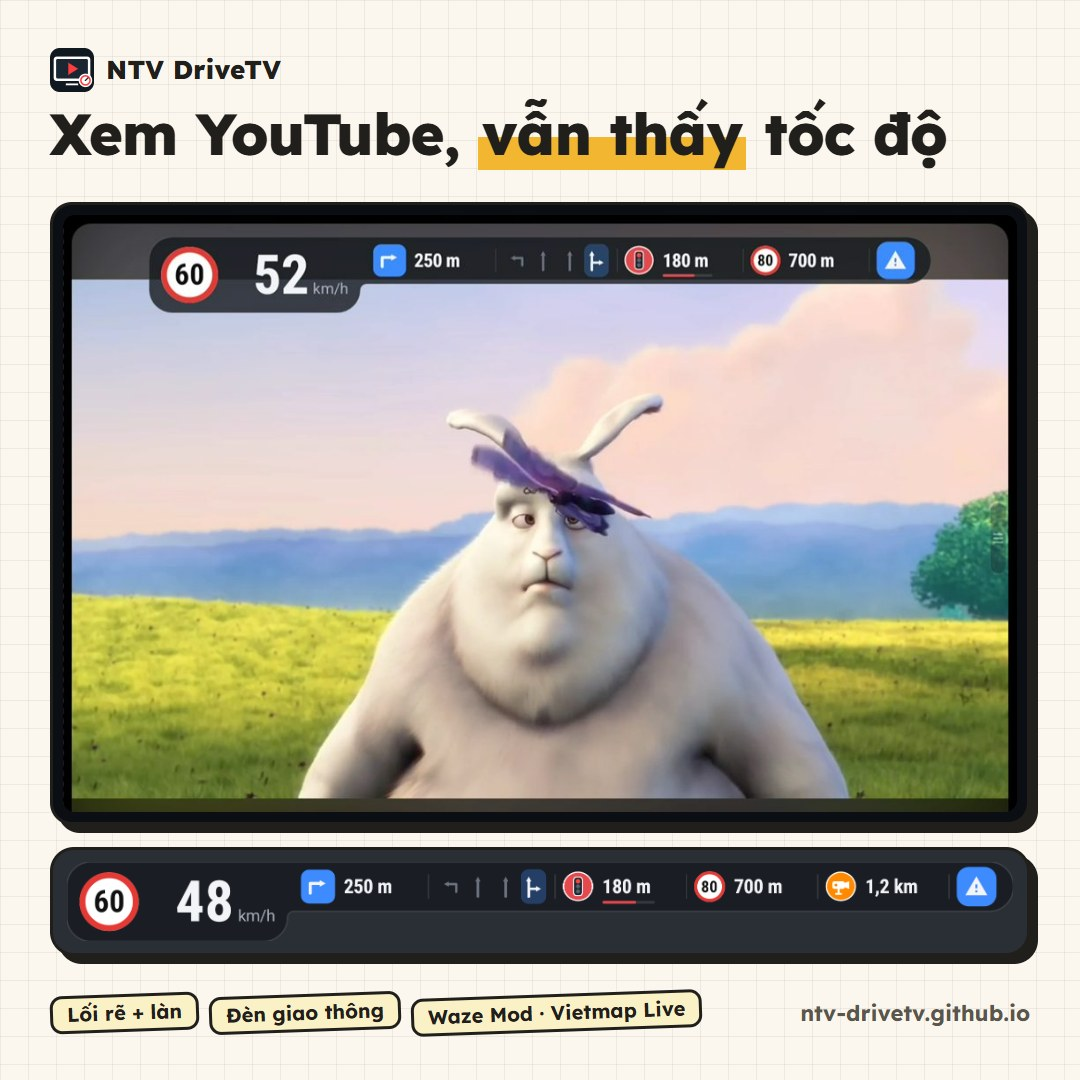
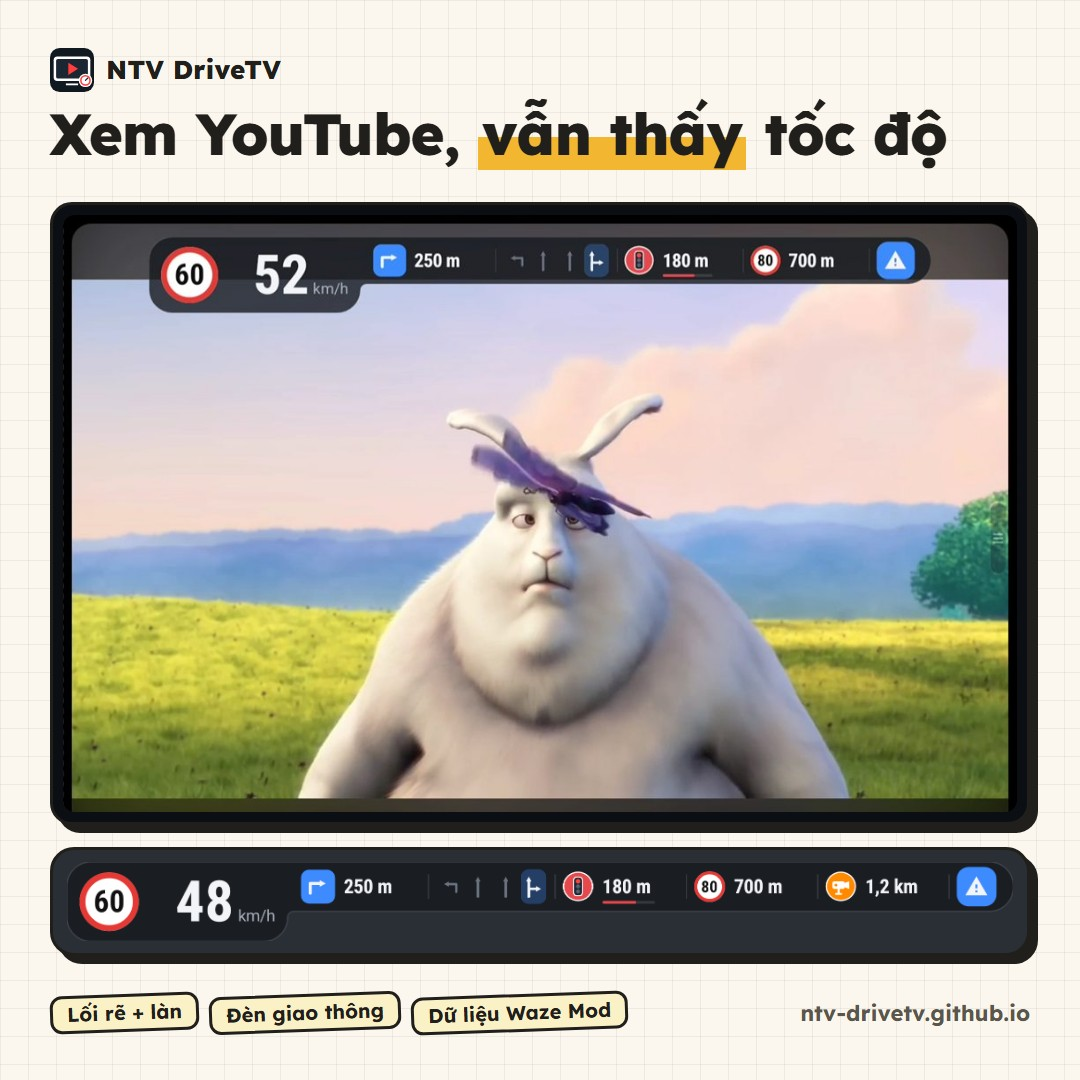
Bỏ mọi thông tin về Vietmap trên trang và ảnh quảng cáo

Changed region(s): [[0.3972, 0.9167, 0.6722, 0.9778]]

diff --git a/index.html b/index.html
@@ -4,7 +4,7 @@
 <meta charset="utf-8">
 <meta name="viewport" content="width=device-width, initial-scale=1, viewport-fit=cover">
 <title>NTV DriveTV</title>
-<meta name="description" content="Xem YouTube trên màn hình Android Auto, góc màn hình có bong bóng báo giới hạn, tốc độ, chỗ rẽ, làn đường và camera lấy từ Waze Mod hoặc Vietmap Live. Không cần root, dùng thử miễn phí.">
+<meta name="description" content="Xem YouTube trên màn hình Android Auto, góc màn hình có bong bóng báo giới hạn, tốc độ, chỗ rẽ, làn đường và camera lấy từ Waze Mod. Không cần root, dùng thử miễn phí.">
 <meta property="og:title" content="NTV DriveTV">
 <meta property="og:description" content="YouTube trên màn hình xe mà tốc độ, chỗ rẽ, làn đường, đèn giao thông, đổi tốc độ vẫn hiện ngay đó. Không cần root.">
 <meta property="og:image" content="img/og.jpg">
@@ -352,7 +352,7 @@
         <div class="hero-copy">
           <span class="tag">Cho xe có Android Auto</span>
           <h1>Xem YouTube trên màn hình xe mà vẫn biết tốc độ, lối rẽ, đèn phía trước</h1>
-          <p class="lede">NTV DriveTV giúp bạn mở YouTube ngay trên màn hình Android Auto của xe. Ở góc màn hình luôn có một bong bóng nhỏ cho bạn biết <span class="mark">đoạn đường cho chạy tối đa bao nhiêu</span>, <span class="mark">xe đang chạy bao nhiêu</span>, <span class="mark">sắp rẽ ở đâu, đi làn nào</span> và <span class="mark">phía trước có đèn giao thông, camera hay đổi tốc độ không</span>. Số liệu lấy từ <b>Waze Mod</b> hoặc <b>Vietmap Live</b> trên điện thoại (bạn chọn), nên app báo gì thì bong bóng hiện đúng như vậy.</p>
+          <p class="lede">NTV DriveTV giúp bạn mở YouTube ngay trên màn hình Android Auto của xe. Ở góc màn hình luôn có một bong bóng nhỏ cho bạn biết <span class="mark">đoạn đường cho chạy tối đa bao nhiêu</span>, <span class="mark">xe đang chạy bao nhiêu</span>, <span class="mark">sắp rẽ ở đâu, đi làn nào</span> và <span class="mark">phía trước có đèn giao thông, camera hay đổi tốc độ không</span>. Số liệu lấy từ <b>Waze Mod</b> trên điện thoại, nên Waze báo gì thì bong bóng hiện đúng như vậy.</p>
           <div class="actions">
             <a class="btn dark" href="#cach-mua">Dùng thử miễn phí <span data-trial>3</span> ngày <svg viewBox="0 0 24 24" fill="none" stroke="currentColor" stroke-width="2.5" stroke-linecap="round" stroke-linejoin="round" aria-hidden="true"><path d="M5 12h14M13 6l6 6-6 6"/></svg></a>
             <a class="btn light" href="#man-hinh">Xem trên màn hình giống xe bạn <svg viewBox="0 0 24 24" fill="none" stroke="currentColor" stroke-width="2.5" stroke-linecap="round" stroke-linejoin="round" aria-hidden="true"><path d="M12 5v14M6 13l6 6 6-6"/></svg></a>
@@ -405,8 +405,8 @@
         <article class="fcard c-green">
           <span class="pill">Cạnh bản đồ</span>
           <h3>Hiện tốc độ giới hạn bên cạnh bản đồ</h3>
-          <p>Mở Google Maps, Waze hay Vietmap Live để chỉ đường, thẻ DriveTV bên cạnh bản đồ vẫn hiện biển giới hạn, tốc độ xe, chỗ rẽ và camera. Video thì vẫn phát tiếng bình thường.</p>
-          <div class="art"><span class="chip l">Google Maps</span><span class="chip r">Waze · Vietmap</span><svg viewBox="18 18 72 72" aria-hidden="true"><path d="M28,30h52a6,6 0,0 1,6 6v34a6,6 0,0 1,-6 6h-52a6,6 0,0 1,-6 -6v-34a6,6 0,0 1,6 -6z" fill="#FFFFFF"/><path d="M29,34h50a3,3 0,0 1,3 3v32a3,3 0,0 1,-3 3h-50a3,3 0,0 1,-3 -3v-32a3,3 0,0 1,3 -3z" fill="#1B2633"/><path d="M31,67C35,60 34,54 40,50S47,44 47,42" fill="none" stroke="#6B7A8F" stroke-width="3" stroke-linecap="round" stroke-linejoin="round"/><path d="M47,37a3.5,3.5 0,1 1,0 7a3.5,3.5 0,1 1,0 -7z" fill="#6B7A8F"/><path d="M57,39h19a3,3 0,0 1,3 3v24a3,3 0,0 1,-3 3h-19a3,3 0,0 1,-3 -3v-24a3,3 0,0 1,3 -3z" fill="#FF3D3D"/><path d="M60,57.5a6.5,6.5 0,1 1,13 0" fill="none" stroke="#FFFFFF" stroke-width="2.5" stroke-linecap="round" stroke-linejoin="round"/><path d="M66.5,57.5L70,52.5" fill="none" stroke="#FFFFFF" stroke-width="2.2" stroke-linecap="round" stroke-linejoin="round"/><path d="M60,62h13v2.5h-13z" fill="#FFFFFF"/><path d="M42,78h24v3h-24z" fill="#FFFFFF"/></svg></div>
+          <p>Mở Google Maps hay Waze để chỉ đường, thẻ DriveTV bên cạnh bản đồ vẫn hiện biển giới hạn, tốc độ xe, chỗ rẽ và camera. Video thì vẫn phát tiếng bình thường.</p>
+          <div class="art"><span class="chip l">Google Maps</span><span class="chip r">Waze</span><svg viewBox="18 18 72 72" aria-hidden="true"><path d="M28,30h52a6,6 0,0 1,6 6v34a6,6 0,0 1,-6 6h-52a6,6 0,0 1,-6 -6v-34a6,6 0,0 1,6 -6z" fill="#FFFFFF"/><path d="M29,34h50a3,3 0,0 1,3 3v32a3,3 0,0 1,-3 3h-50a3,3 0,0 1,-3 -3v-32a3,3 0,0 1,3 -3z" fill="#1B2633"/><path d="M31,67C35,60 34,54 40,50S47,44 47,42" fill="none" stroke="#6B7A8F" stroke-width="3" stroke-linecap="round" stroke-linejoin="round"/><path d="M47,37a3.5,3.5 0,1 1,0 7a3.5,3.5 0,1 1,0 -7z" fill="#6B7A8F"/><path d="M57,39h19a3,3 0,0 1,3 3v24a3,3 0,0 1,-3 3h-19a3,3 0,0 1,-3 -3v-24a3,3 0,0 1,3 -3z" fill="#FF3D3D"/><path d="M60,57.5a6.5,6.5 0,1 1,13 0" fill="none" stroke="#FFFFFF" stroke-width="2.5" stroke-linecap="round" stroke-linejoin="round"/><path d="M66.5,57.5L70,52.5" fill="none" stroke="#FFFFFF" stroke-width="2.2" stroke-linecap="round" stroke-linejoin="round"/><path d="M60,62h13v2.5h-13z" fill="#FFFFFF"/><path d="M42,78h24v3h-24z" fill="#FFFFFF"/></svg></div>
         </article>
         <article class="fcard c-purple">
           <span class="pill">Menu</span>
@@ -439,14 +439,14 @@
           <li><b>🚦 Đèn giao thông</b>Còn dưới 500 m thì có thanh đếm lùi màu đỏ.</li>
           <li><b>80 Đổi tốc độ phía trước</b>Biển giới hạn mới và còn bao xa tới đó.</li>
         </ul>
-        <p class="note">Lối rẽ và làn đường lấy từ Waze Mod; dùng Vietmap Live thì bong bóng hiện giới hạn, tốc độ, camera và các cảnh báo của Vietmap. Trên là bong bóng dọc lúc sắp tới ngã rẽ. Giữa là bong bóng ngang cùng tình huống. Dưới là bong bóng ngang lúc lỡ chạy quá tốc độ, phần tốc độ chuyển sang đỏ.</p>
+        <p class="note">Số liệu lấy từ Waze Mod. Trên là bong bóng dọc lúc sắp tới ngã rẽ. Giữa là bong bóng ngang cùng tình huống. Dưới là bong bóng ngang lúc lỡ chạy quá tốc độ, phần tốc độ chuyển sang đỏ.</p>
       </div>
     </div>
   </section>
 
   <section class="block gutter">
     <div class="wrap">
-      <div class="head"><h2>Đang chỉ đường bằng Google Maps, Waze hay Vietmap vẫn thấy tốc độ</h2><p>Lúc không xem video, bạn cứ để bản đồ chiếm màn hình. Thẻ DriveTV bên cạnh vẫn hiện biển giới hạn và tốc độ xe. Dòng trên cho biết còn bao xa tới chỗ rẽ và rẽ vào đường nào. Dòng dưới chỉ nhắc những gì đáng để ý như đèn giao thông, camera, đổi tốc độ, trạm thu phí. Video vẫn phát tiếng, bạn quay lại là thấy hình ngay.</p></div>
+      <div class="head"><h2>Đang chỉ đường bằng Google Maps hay Waze vẫn thấy tốc độ</h2><p>Lúc không xem video, bạn cứ để bản đồ chiếm màn hình. Thẻ DriveTV bên cạnh vẫn hiện biển giới hạn và tốc độ xe. Dòng trên cho biết còn bao xa tới chỗ rẽ và rẽ vào đường nào. Dòng dưới chỉ nhắc những gì đáng để ý như đèn giao thông, camera, đổi tốc độ, trạm thu phí. Video vẫn phát tiếng, bạn quay lại là thấy hình ngay.</p></div>
       <div class="visual box solo wide"><div class="dark"><img src="img/mh-1280x720-ban-do.jpg" width="1280" height="720" loading="lazy" alt="Google Maps bên trái; thẻ DriveTV bên phải có biển 60 to, tốc độ 52 trong vòng tròn nhỏ, viên Đèn đỏ 180 m, dòng rẽ phải 250 m vào Nguyễn Văn Linh và dòng Đèn đỏ 180 m."></div></div>
     </div>
   </section>
@@ -565,7 +565,7 @@
           <div class="terms-box" id="terms" hidden><b>Khi mua bản quyền</b><ul class="ticks"></ul></div>
           <ul class="ticks">
             <li>YouTube và trang web trên màn hình Android Auto</li>
-            <li>Bong bóng tốc độ, camera, chỗ rẽ, làn đường từ Waze Mod hoặc Vietmap Live</li>
+            <li>Bong bóng tốc độ, camera, chỗ rẽ, làn đường từ Waze Mod</li>
             <li>Tốc độ trên thẻ cạnh bản đồ</li>
             <li>Menu một chạm, nút vô-lăng, tìm bằng giọng nói</li>
             <li>Báo lỗi bản đồ, xuất file CSV và GeoJSON</li>
@@ -594,7 +594,7 @@
         <div class="req box"><b>Điện thoại</b><p>Android 10 trở lên, có Google Play, không cần root. Riêng máy Huawei đời mới không có dịch vụ Google nên không chạy được Android Auto.</p></div>
         <div class="req box"><b>Xe</b><p>Xe có Android Auto, kết nối bằng dây hay không dây đều được.</p></div>
         <div class="req box"><b>Tài khoản</b><p>Một tài khoản Google để đăng nhập app và giữ bản quyền.</p></div>
-        <div class="req box"><b>Dữ liệu tốc độ</b><p>Một trong hai: <b>Waze Mod</b> V14 trở lên (có Data API), mở Waze trên điện thoại khi đi; hoặc <b>Vietmap Live</b> đã đăng nhập, để Vietmap chạy trên điện thoại khi đi. Chưa có app nào thì bạn vẫn xem video được, chỉ là không có bong bóng tốc độ.</p></div>
+        <div class="req box"><b>Dữ liệu tốc độ</b><p><b>Waze Mod</b> V14 trở lên (có Data API), mở Waze trên điện thoại khi đi. Chưa có Waze Mod thì bạn vẫn xem video được, chỉ là không có bong bóng tốc độ.</p></div>
         <div class="req box"><b>YouTube</b><p>Nên có YouTube Premium để xem không bị quảng cáo, vì app không chặn quảng cáo.</p></div>
       </div>
     </div>
@@ -610,9 +610,8 @@
           <details><summary>Xe của tôi có dùng được không?</summary><p>Xe có Android Auto và điện thoại chạy Android 10 trở lên là dùng được bạn nhé. Bạn có thể xem trước ảnh trên màn hình giống xe mình ở mục <a href="#man-hinh">Màn hình xe</a>.</p></details>
           <details><summary>Có phải root máy hay cài đặt phức tạp không?</summary><p>Không đâu. App cài từ Google Play như mọi app khác, không cần root, cũng không cần bật chế độ nhà phát triển.</p></details>
           <details><summary>Dùng thử bao lâu? Hết hạn thì sao?</summary><p>Được dùng thử <span data-trial>3</span> ngày. Hết hạn thì màn hình xe sẽ báo để bạn mua bản quyền. Nếu hết hạn đúng lúc đang chạy thì app cũng không tắt giữa đường, phải tới lần cắm xe sau mới báo.</p></details>
-          <details><summary>Số liệu trên bong bóng lấy từ đâu?</summary><p>Từ Waze Mod hoặc Vietmap Live chạy trên điện thoại của bạn, chọn trong app ở thẻ Bong bóng → Nguồn tốc độ và cảnh báo. Waze Mod cho đủ giới hạn, tốc độ, camera, cảnh báo, chỗ rẽ và làn đường. Vietmap Live cho giới hạn, tốc độ, camera và cảnh báo (không có chỗ rẽ, làn đường). App không tự đo tốc độ bằng GPS, nên số liệu luôn khớp với app bạn chọn.</p></details>
-          <details><summary>Dùng Vietmap Live được không?</summary><p>Được. Trong app chọn Vietmap Live làm nguồn tốc độ; lần đầu bấm "Tạo" và "Luôn cho phép" để app đọc được tốc độ của Vietmap. Khi đi, bạn đăng nhập Vietmap Live, mở Vietmap và đừng vuốt tắt nó; nên để pin của Vietmap ở chế độ "Không hạn chế".</p></details>
-          <details><summary>Không có Waze Mod hay Vietmap Live thì sao?</summary><p>Bạn vẫn xem YouTube và trang web bình thường. Bong bóng sẽ nhắc mở app nguồn tốc độ; nếu không dùng thì bạn tắt bong bóng đi cũng được.</p></details>
+          <details><summary>Số liệu trên bong bóng lấy từ đâu?</summary><p>Từ Waze Mod chạy trên điện thoại của bạn: giới hạn, tốc độ, camera, cảnh báo, chỗ rẽ và làn đường. App không tự đo tốc độ bằng GPS, nên số liệu luôn khớp với Waze.</p></details>
+          <details><summary>Không có Waze Mod thì sao?</summary><p>Bạn vẫn xem YouTube và trang web bình thường. Bong bóng sẽ nhắc mở app nguồn tốc độ; nếu không dùng thì bạn tắt bong bóng đi cũng được.</p></details>
           <details><summary>Có bị quảng cáo YouTube không?</summary><p>App mở YouTube giống như trên trình duyệt và không chặn quảng cáo. Bạn đăng nhập tài khoản có YouTube Premium là không còn quảng cáo.</p></details>
         </div>
         <div>
@@ -647,7 +646,7 @@
   <div class="wrap">
     <p><b>NTV DriveTV</b> · bản 1.0.0</p>
     <p>Chỉ xem video khi xe dừng. Tuân thủ luật giao thông và luôn quan sát đường.</p>
-    <p>NTV DriveTV không liên quan và không được Google, YouTube, Waze, Vietmap hay nhóm phát triển Waze Mod bảo trợ. Các tên này chỉ dùng để mô tả khả năng tương thích.</p>
+    <p>NTV DriveTV không liên quan và không được Google, YouTube, Waze hay nhóm phát triển Waze Mod bảo trợ. Các tên này chỉ dùng để mô tả khả năng tương thích.</p>
     <p>Phim trong ảnh minh hoạ: Big Buck Bunny, © Blender Foundation, giấy phép CC BY 3.0. Ảnh màn hình chụp trên bộ giả lập màn hình xe, số liệu tốc độ là cảnh mẫu.</p>
   </div>
 </footer>
